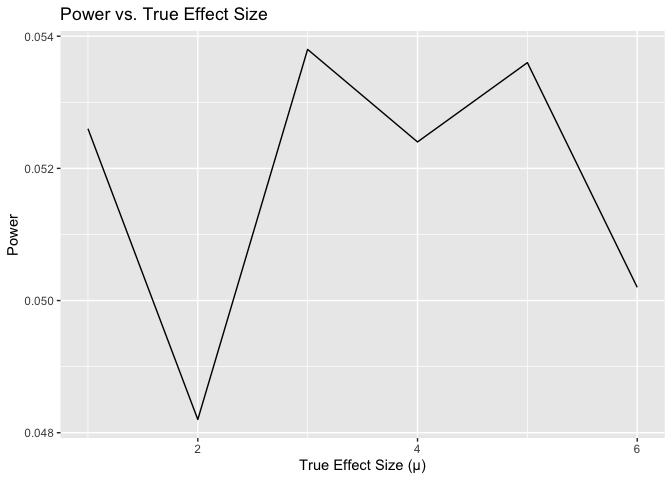
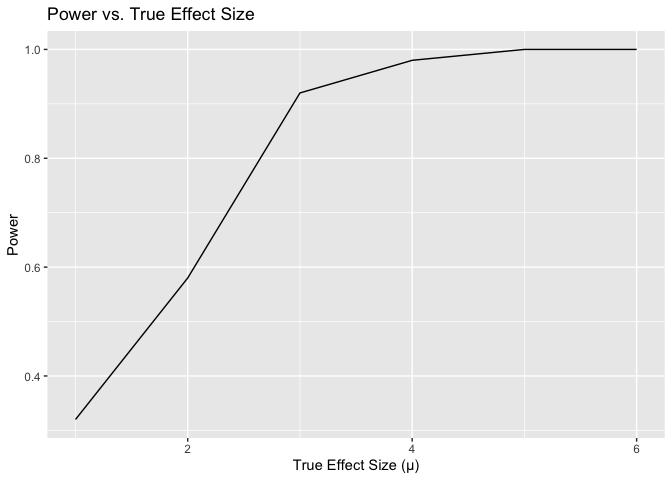
for the t-test, changed the mu to be 0. Added a legend for the plots and played around with the aesthetics.
Also added to the discussion of the plots

diff --git a/P8105_hw5_nk3037.md b/P8105_hw5_nk3037.md
@@ -9,7 +9,7 @@ Navya Koneripalli
 # Create a dataframe with all the file names
 file_names = list.files(path = "./data", pattern = ".csv", full.names = TRUE)
 
-# Separate arm and subject id and combie into a single dataframe
+# Separate arm and subject id and combine into a single dataframe
 data = file_names %>%
   map_df(~ read.csv(.x) %>%
             mutate(subject_id = str_extract(basename(.x), "\\d+"),
@@ -53,7 +53,7 @@ set.seed(1)
 n = 30
 sigma = 5
 alpha = 0.05
-num_datasets = 5000
+num_datasets = 50
 mu = 0
 
 # One-sample t-test function
@@ -66,7 +66,7 @@ t_test_mu0 = function(data, true_mu) {
 # Generate 5000 datasets and store μ̂ and p-values
 results = replicate(num_datasets, {
   sample_data = rnorm(n, mean = mu, sd = sigma)
-  t_test_result = t_test_mu0(sample_data, true_mu = mu)
+  t_test_result = t_test_mu0(sample_data, true_mu = 0)
   c(estimate = t_test_result$estimate[1], p_value = t_test_result$p.value)
 }, simplify = TRUE)
 
@@ -85,7 +85,7 @@ set.seed(2)
 n = 30
 sigma = 5
 alpha = 0.05
-num_datasets = 5000
+num_datasets = 50
 mu_values = c(1, 2, 3, 4, 5, 6)
 
 # One-sample t-test
@@ -100,7 +100,7 @@ results = expand.grid(mu = mu_values, dataset = 1:num_datasets) %>%
   group_by(mu) %>%
   rowwise() %>%
   mutate(sample_data = list(rnorm(n, mean = mu, sd = sigma)),
-         tidy_result = list(t_test(sample_data, true_mu = mu))) %>%
+         tidy_result = list(t_test(sample_data, true_mu = 0))) %>%
   ungroup() %>%
   tidyr::unnest(c(tidy_result, sample_data)) %>%
   mutate(reject_null = as.numeric(p.value < alpha))
